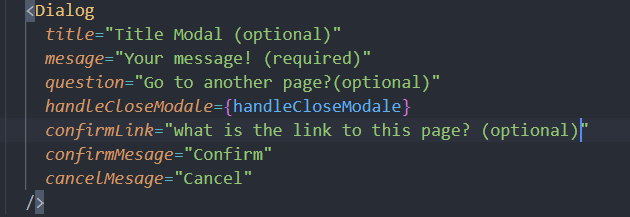
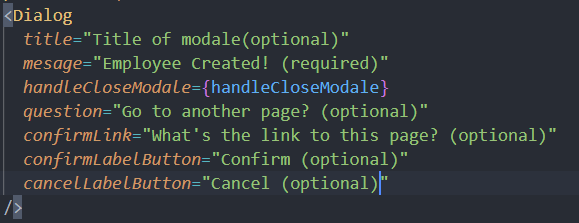
upload label props

Changed region(s): [[0.0, 0.0, 0.9637, 0.9954]]

diff --git a/src/components/Dialog.jsx b/src/components/Dialog.jsx
@@ -6,8 +6,8 @@ export default function Dialog({
   question,
   handleCloseModale,
   confirmLink,
-  confirmMesage,
-  cancelMesage,
+  confirmLabelButton,
+  cancelLabelButton,
 }) {
   return (
     <div className={css.overlayModal}>
@@ -26,10 +26,10 @@ export default function Dialog({
           {confirmLink && (
             <div>
               <a href={confirmLink} className={css.modal_button}>
-                {confirmMesage}
+                {confirmLabelButton}
               </a>
               <button onClick={handleCloseModale} className={css.modal_button}>
-                {cancelMesage}
+                {cancelLabelButton}
               </button>
             </div>
           )}

diff --git a/Readme.md b/Readme.md
@@ -11,6 +11,7 @@ npm install oc_ms_dialog
 ### Import the component in your React application:
 
 import Dialog from "oc_ms_dialog";
+import "oc_ms_dialog/dist/lib.css";
 
 ## Usage
 
@@ -18,21 +19,17 @@ import Dialog from "oc_ms_dialog";
 
 ## Props
 
-- title (string): The title of the dialog.
-- mesage (string): The main message content of the dialog.
-- question (string): Additional question content if needed.
-- handleCloseModale (function): Callback function for closing the modal.
-- confirmLink (string): Link for the confirmation button.
-- confirmMesage (string): Text for the confirmation button.
-- cancelMesage (string): Text for the cancel button.
+- title (string): The title of the dialog (optional).
+- mesage (string): The main message content of the dialog (requierd).
+- handleCloseModale (function): Callback function for closing the modal(requierd).
+- question (string): Additional question content if needed (optional).
+- confirmLink (string): Link for the confirmation button (optional).
+- confirmLabelButton (string): Text for the confirmation button (optional).
+- cancelLabelButton (string): Text for the cancel button (optional).
 
 ## Styles
 
 This component uses CSS modules for styling. Ensure that you import the styles properly:
-
-### Import
-
-import "dialog/dist/lib.css";
 
 ### display review
 
